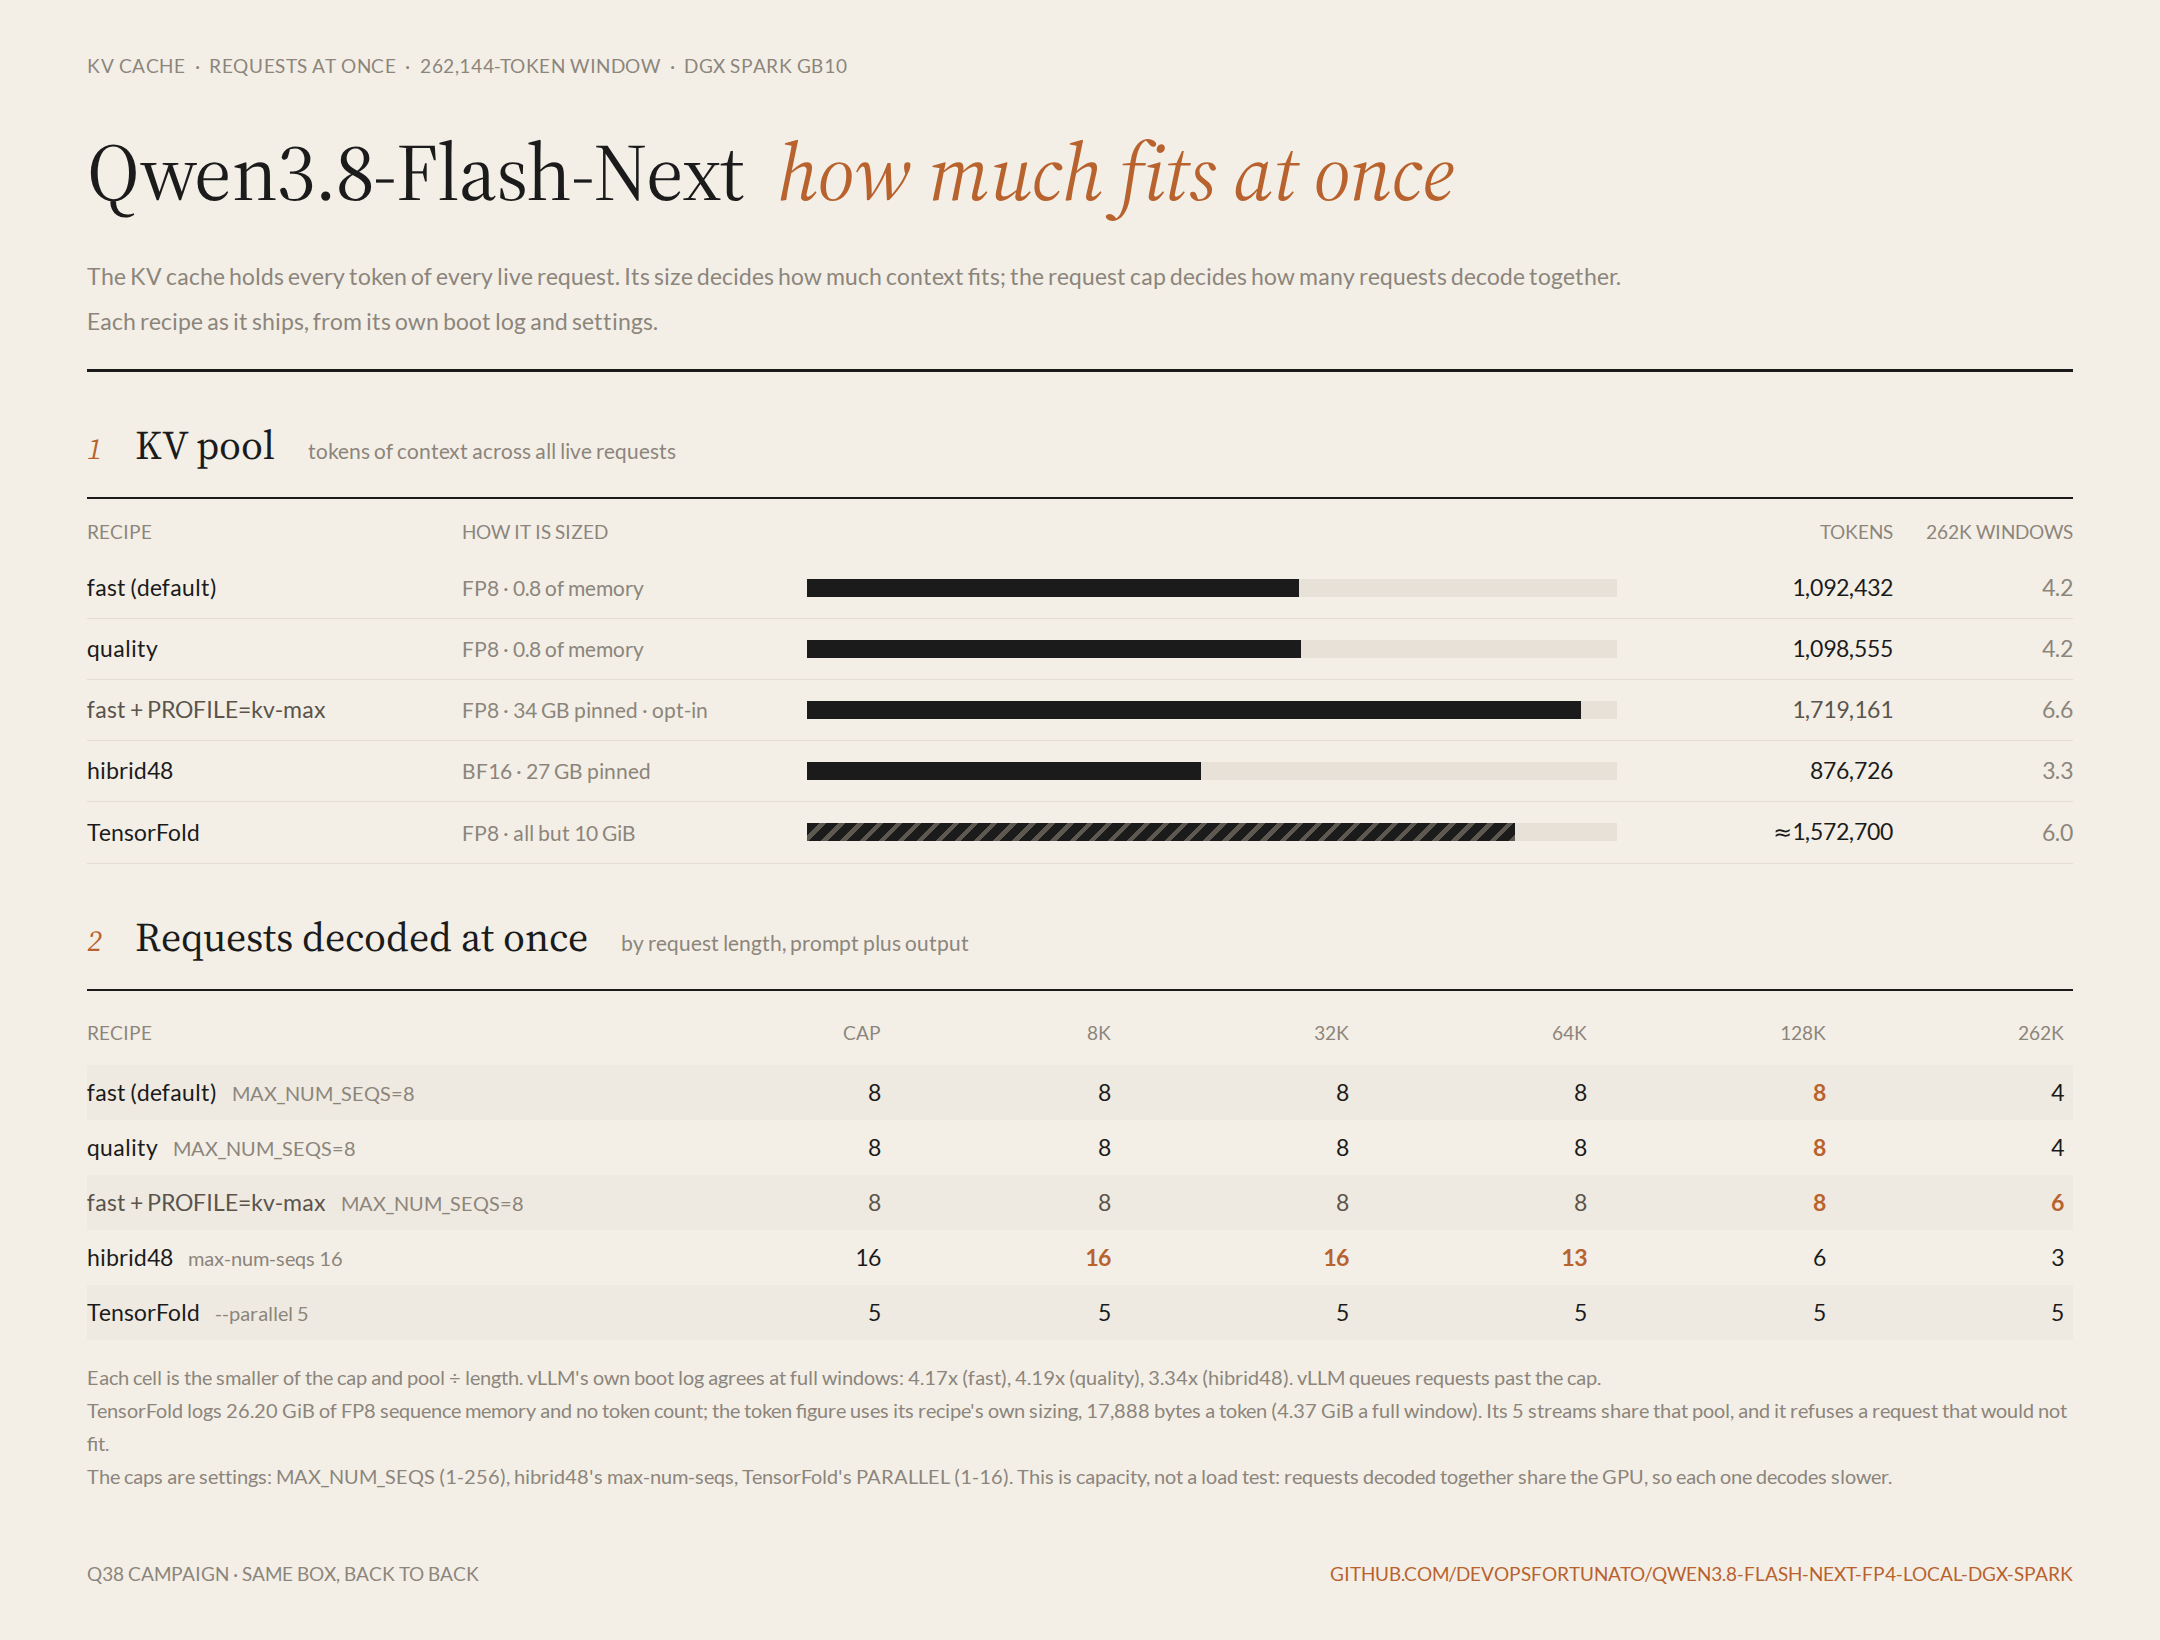
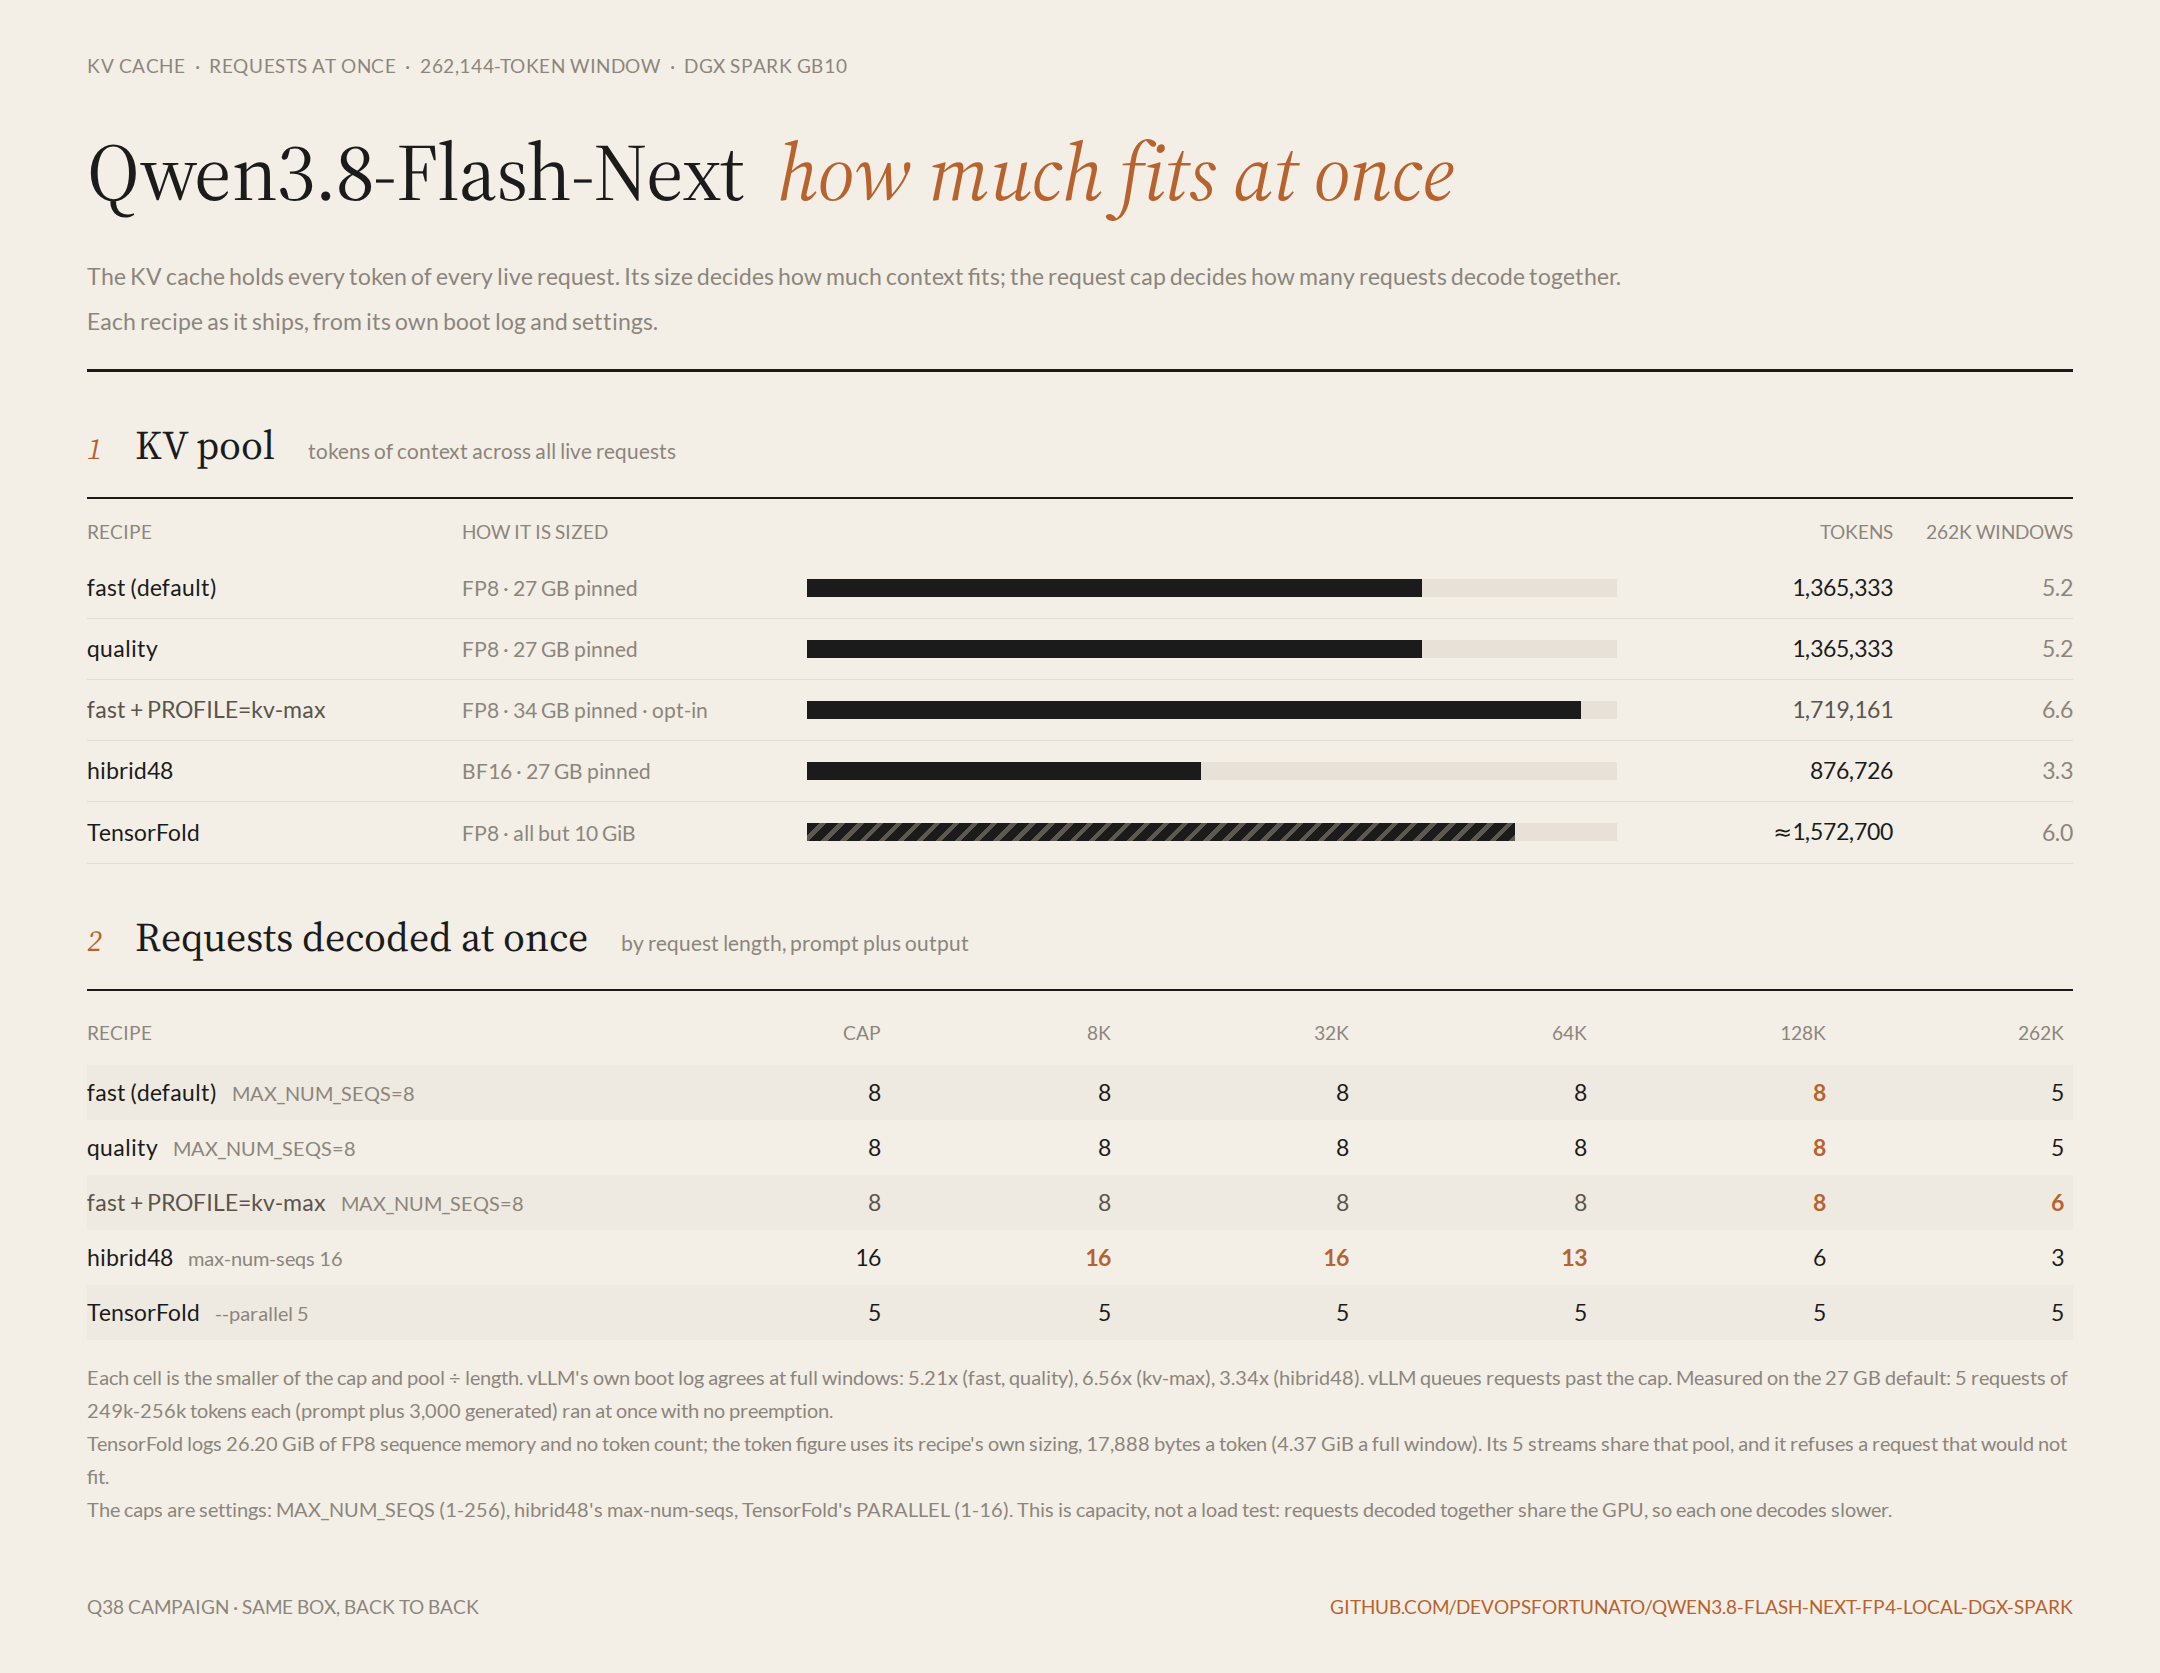
Pin the KV pool at 27 GB by default: five full 262k requests at once
KV_CACHE_MEMORY_BYTES now defaults to 27000000000, which vLLM turns into
1,365,333 FP8 tokens (5.21x a 262,144-token window). The 0.8 utilization
sizing gave 1.05-1.10M tokens (4 full windows) and drifted by about
0.7 GiB between boots; an empty KV_CACHE_MEMORY_BYTES= brings it back.

Checked on the Spark against the old sizing: five 246k-253k prompts with
3,000 generated tokens each decoded together with no preemption;
perplexity is identical to the last digit; tool-eval-bench 89/91 (old
89/89) and sixcat 91.6/90.8 (old 92.1/92.2), within run-to-run noise.
Lowest MemAvailable while serving: 11.4 GiB.

test_config.sh covers the new default and the empty override (13 checks).
README, four-kv.png and four-overview.png show the new numbers.

diff --git a/README.md b/README.md
@@ -26,8 +26,8 @@ command: `VLLM_PLE_TABLE_MEMORY=disk` and a 262,144-token window.
 `./start.sh` prepares the machine on the first run and starts the server. `./stop.sh` stops it.
 
 > **Status:** tested on one DGX Spark (GB10, 121 GB unified memory). At a 128k prose context: prefill
-> 1,990 t/s, decode 39 t/s, TTFT 66 s (`PRECISION=quality`: 1,515 t/s, 38 t/s, 86 s). About 1.05M tokens of
-> FP8 KV cache, sixcat 92.1, tool-eval 89/100. See [Benchmarks](#benchmarks).
+> 1,990 t/s, decode 39 t/s, TTFT 66 s (`PRECISION=quality`: 1,515 t/s, 38 t/s, 86 s). 1,365,333 tokens of
+> FP8 KV cache, five full 262k requests at once. sixcat 92.1, tool-eval 89/100. See [Benchmarks](#benchmarks).
 
 ## Quick start
 
@@ -132,8 +132,8 @@ Every setting lives in `scripts/config.sh`. Override it from the environment (`P
 | `MAX_MODEL_LEN` | `262144` | prompt + reply window (`--max-model-len`) |
 | `MAX_NUM_SEQS` | `8` | sequences decoded together |
 | `MAX_NUM_BATCHED_TOKENS` | `4096` | chunked-prefill token cap |
-| `GPU_MEMORY_UTILIZATION` | `0.8` | fraction of GPU memory vLLM may use |
-| `KV_CACHE_MEMORY_BYTES` | empty | KV pool in bytes (`--kv-cache-memory-bytes`); replaces the utilization sizing |
+| `GPU_MEMORY_UTILIZATION` | `0.8` | fraction of GPU memory vLLM may use; sizes the KV pool only when `KV_CACHE_MEMORY_BYTES` is empty |
+| `KV_CACHE_MEMORY_BYTES` | `27000000000` | KV pool in bytes (`--kv-cache-memory-bytes`): 1,365,333 FP8 tokens. Empty uses `GPU_MEMORY_UTILIZATION` |
 | `YARN_FACTOR` | empty | YaRN rope scaling past 262,144 positions; `4` allows a 1,048,576 window |
 | `PROFILE` | empty | opt-in launch profile from `profiles/` (see [Profiles](#profiles)) |
 | `PRECISION` | `fast` | activation precision; `fast` is the model card's, `quality` is closer to full precision (see [Precision](#precision)) |
@@ -182,9 +182,21 @@ read as data, and `.env` and the environment still win over it. The default need
 
 | Profile | Window | KV pool | FP8 KV tokens | Full windows at once | Notes |
 | --- | ---: | --- | ---: | ---: | --- |
-| none | 262,144 | 0.8 utilization | 1.03-1.10M | 4.0-4.2 | the default |
+| none | 262,144 | 27 GB | 1,365,333 | 5.2 | the default; lowest `MemAvailable` while serving 11.4 GiB |
 | `kv-max` | 262,144 | 34 GB | 1,719,161 | 6.6 | lowest `MemAvailable` while serving 5.5 GiB; floor 4 GiB |
 | `1m` | 1,048,576 | 30 GB | 1,931,132 | 1.8 | test profile: YaRN 4x, floor 4 GiB |
+
+The default pool is pinned at 27 GB, so five full 262,144-token requests decode at once. It used to be sized at
+0.8 of memory: 1.05-1.10M tokens, 4 full windows, drifting by about 0.7 GiB between boots. An empty
+`KV_CACHE_MEMORY_BYTES=` brings that sizing back. Checks on the 27 GB default:
+
+- Five prompts of 246,388-253,222 tokens, each generating 3,000 tokens, decoded together with no preemption.
+  vLLM reads one prompt at a time, so the fifth got its first token after 652 s. Lowest `MemAvailable` 12.4 GiB.
+- Perplexity is identical to the old sizing to the last digit (fresh text 2.2049, all text 1.0902), so the pool
+  size changes no answer. Lowest `MemAvailable` 11.4 GiB, during a 96k-token prompt.
+- tool-eval-bench 2.8.1: 89 and 91 (old sizing: 89 and 89). sixcat: 91.6 and 90.8 (old sizing: 92.1 and
+  92.2). sixcat sends 4 requests at once, so long answers differ between any two runs; one config swings as
+  much as the two differ (tools by 10 points, instruct by 5).
 
 `kv-max` changes only the pool size, so it answers exactly like the default. Leave nothing else big running on
 the Spark with it, or lower `KV_CACHE_MEMORY_BYTES`.
@@ -232,7 +244,7 @@ image, that does not carry over to the task benchmarks:
 | Decode, geometric mean, 0.5k-128k | **45.8 t/s** | 44.4 t/s |
 | Prefill, geometric mean | **1,717 t/s** | 1,362 t/s |
 | Time to first token, 128k prose | **65.5 s** | 86.0 s |
-| KV cache | 1,051,720 | 1,041,294 |
+| KV cache, default 27 GB pool | 1,365,333 | 1,365,333 |
 
 What `fast` gives up is about 0.5% perplexity on book prose and code. What it gains is 26% more prefill and
 20 s less wait at 128k, with sixcat a little higher. Pick `quality` when token-level fidelity to full precision
@@ -278,8 +290,8 @@ built locally from its repository.
 | Decode, geometric mean, 0.5k-128k | 45.8 t/s | 44.4 t/s | **54.3 t/s** | 51.6 t/s |
 | Prefill, geometric mean | 1,717 t/s | 1,362 t/s | **1,936 t/s** | 1,858 t/s |
 | Time to first token, 128k prose | 65.5 s | 86.0 s | **60.2 s** | 63.9 s |
-| KV cache | 1,051,720 tokens | 1,041,294 tokens | 876,726 tokens | **≈1.57M tokens** (26.45 GiB) |
-| Full 262k requests that fit | 4.01 | 3.97 | 3.34 | **5** (its cap) |
+| KV cache | 1,365,333 tokens | 1,365,333 tokens | 876,726 tokens | **≈1.57M tokens** (26.45 GiB) |
+| Full 262k requests at once | **5** | **5** | 3 | **5** (its cap) |
 | Requests decoded at once (cap) | 8 | 8 | **16** | 5 |
 
 What the numbers say:
@@ -290,9 +302,8 @@ What the numbers say:
 - **hibrid48 and TensorFold are faster.** hibrid48 decodes 19% faster than `fast` (54.3 against 45.8 t/s,
   geometric means) and prefills 13% faster, with MTP up to 7 and Marlin kernels. TensorFold is second (51.6 t/s,
   1,858 t/s) and the fastest of all on short code (67.9 t/s at 0.5k). All four stay above 38 t/s at 128k.
-- **No recipe serves the most requests at every length.** This recipe holds 1.05-1.10M tokens of FP8 KV (the
-  exact count depends on the memory free at boot) with a cap of 8: 8 requests up to about 136k each, 4 at the
-  full 262k window. hibrid48 keeps BF16 KV, 877k tokens, with a cap of 16: the most short requests, 3 full
+- **No recipe serves the most requests at every length.** This recipe holds 1,365,333 tokens of FP8 KV in its
+  27 GB default pool with a cap of 8: 8 requests up to about 170k each, 5 at the full 262k window. hibrid48 keeps BF16 KV, 877k tokens, with a cap of 16: the most short requests, 3 full
   windows. TensorFold takes all memory but 10 GiB, about 1.57M tokens, with a cap of 5: all 5 at full windows.
   `PROFILE=kv-max` gives this recipe the largest pool, 1.72M tokens, 6 full windows.
 - **`quality` is the most precise, not the most useful.** It tracks a full-precision run twice as closely and
@@ -455,8 +466,8 @@ a second quant of the FP4-Local checkpoint.
 - **`MemAvailable` too low.** Stop other containers or models (`docker ps`), drop page cache with
   `sudo sync && echo 3 | sudo tee /proc/sys/vm/drop_caches`, or run with `MEM_CHECK=0` to only warn.
 - **Port 8000 already in use.** `PORT=9000 ./start.sh`, or `./start.sh restart` if it is this recipe's container.
-- **Out of memory while loading.** Lower `GPU_MEMORY_UTILIZATION` (for example `0.75`) or `MAX_MODEL_LEN`
-  (`131072`).
+- **Out of memory while loading.** Lower `KV_CACHE_MEMORY_BYTES` (for example `22000000000`, about 4 full
+  windows) or `MAX_MODEL_LEN` (`131072`).
 - **Slow first start.** The first load compiles kernels and reads about 96 GiB; later starts are faster. Follow it
   with `docker logs -f qwen38-flash-next-fp4`.
 - **Unknown quantization or load format.** You are not on `eugr/spark-vllm-b12x`; upstream vLLM cannot read this
